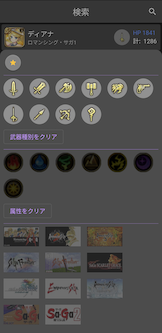
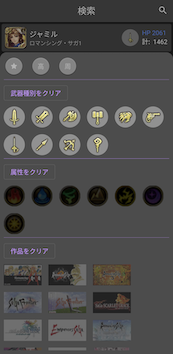
fix: イメージ画像が古すぎたので更新

diff --git a/README.md b/README.md
@@ -38,7 +38,8 @@ Firebaseで利用しているサービスは次の通りです。
 
 # 画面イメージ一部
 ![01](/images/01_char_list.png)
-![02](/images/02_char_detail.png)
-![03](images/03_search.png)
-![04](images/04_info.png)
-![05](images/05_account.png)
+![0201](/images/02_char_detail_01.png)
+![0202](/images/02_char_detail_02.png)
+![03](/images/03_search.png)
+![04](/images/04_info.png)
+![05](/images/05_account.png)
